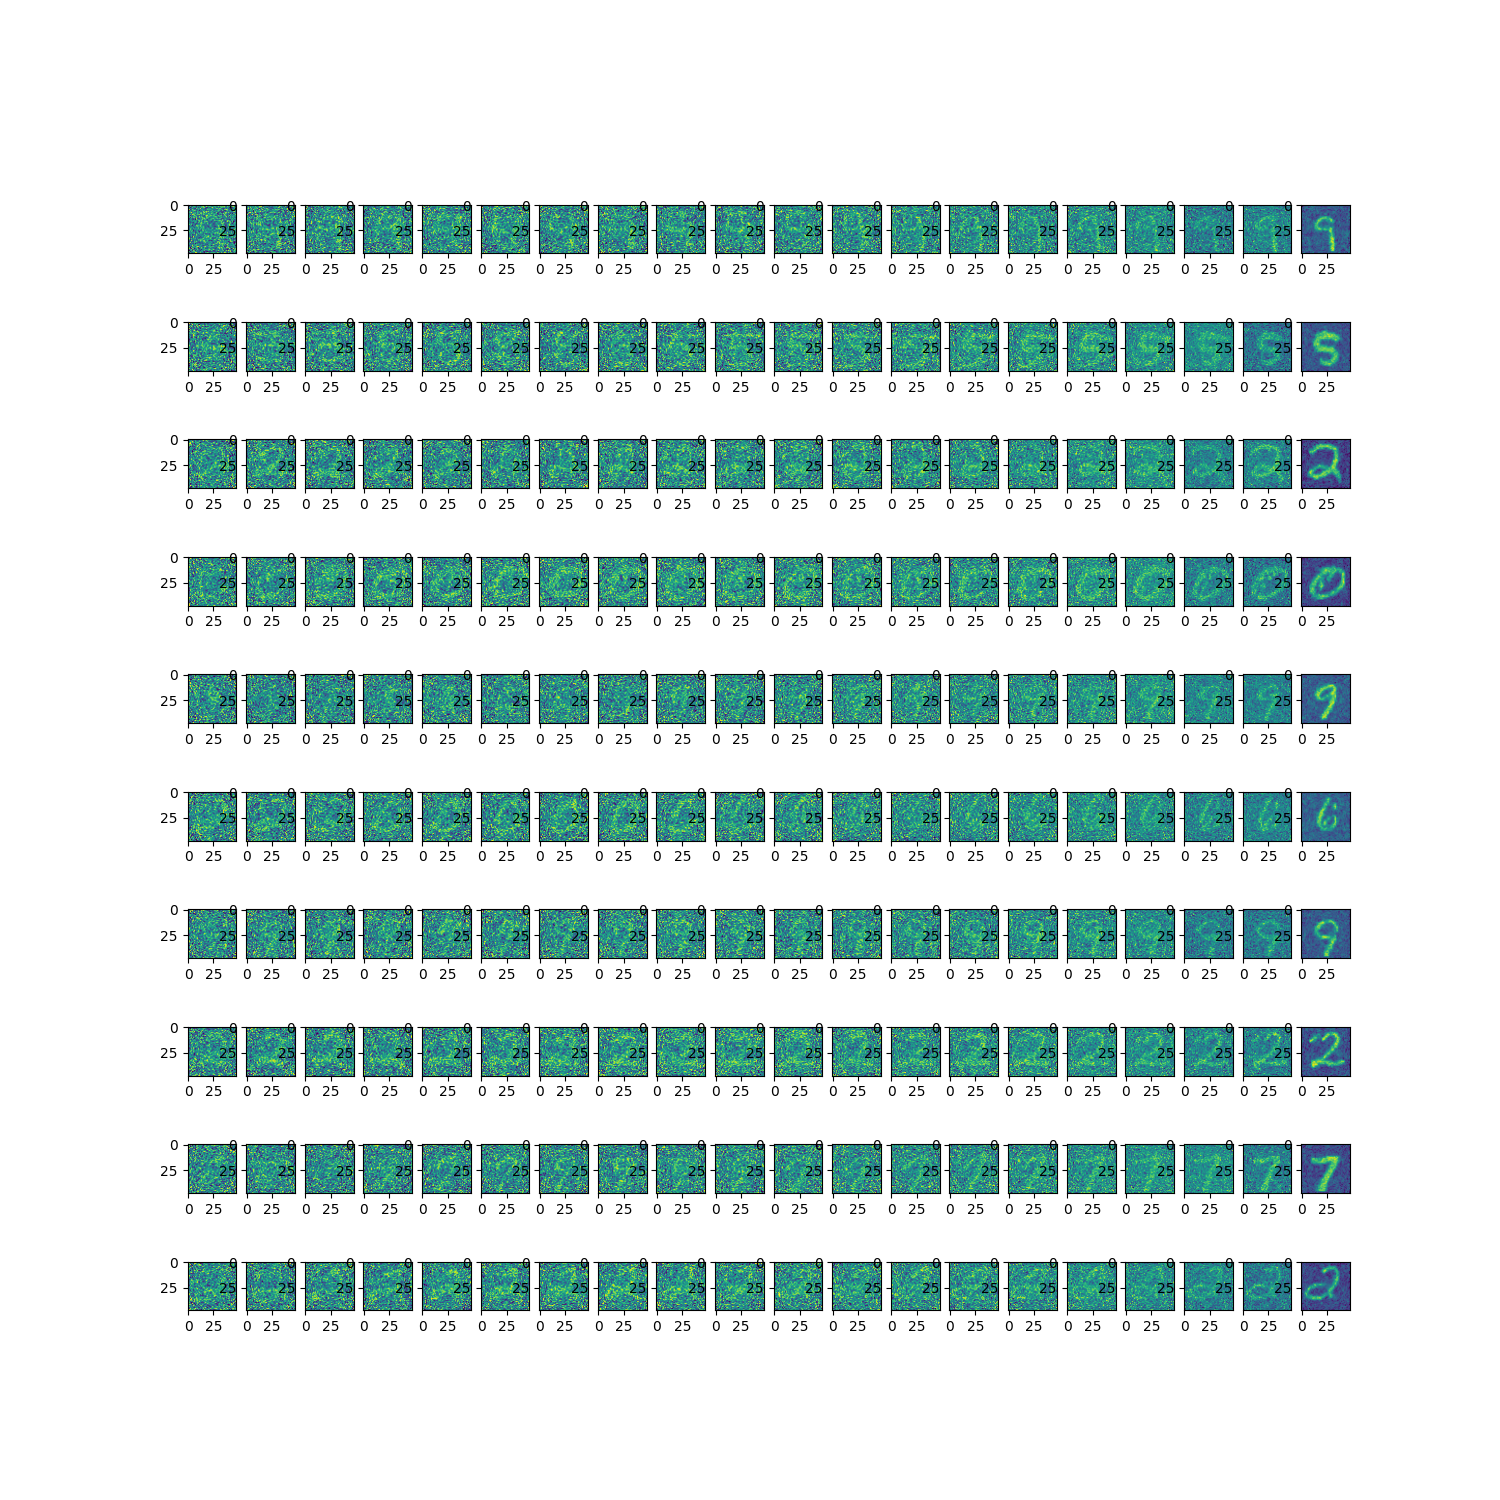
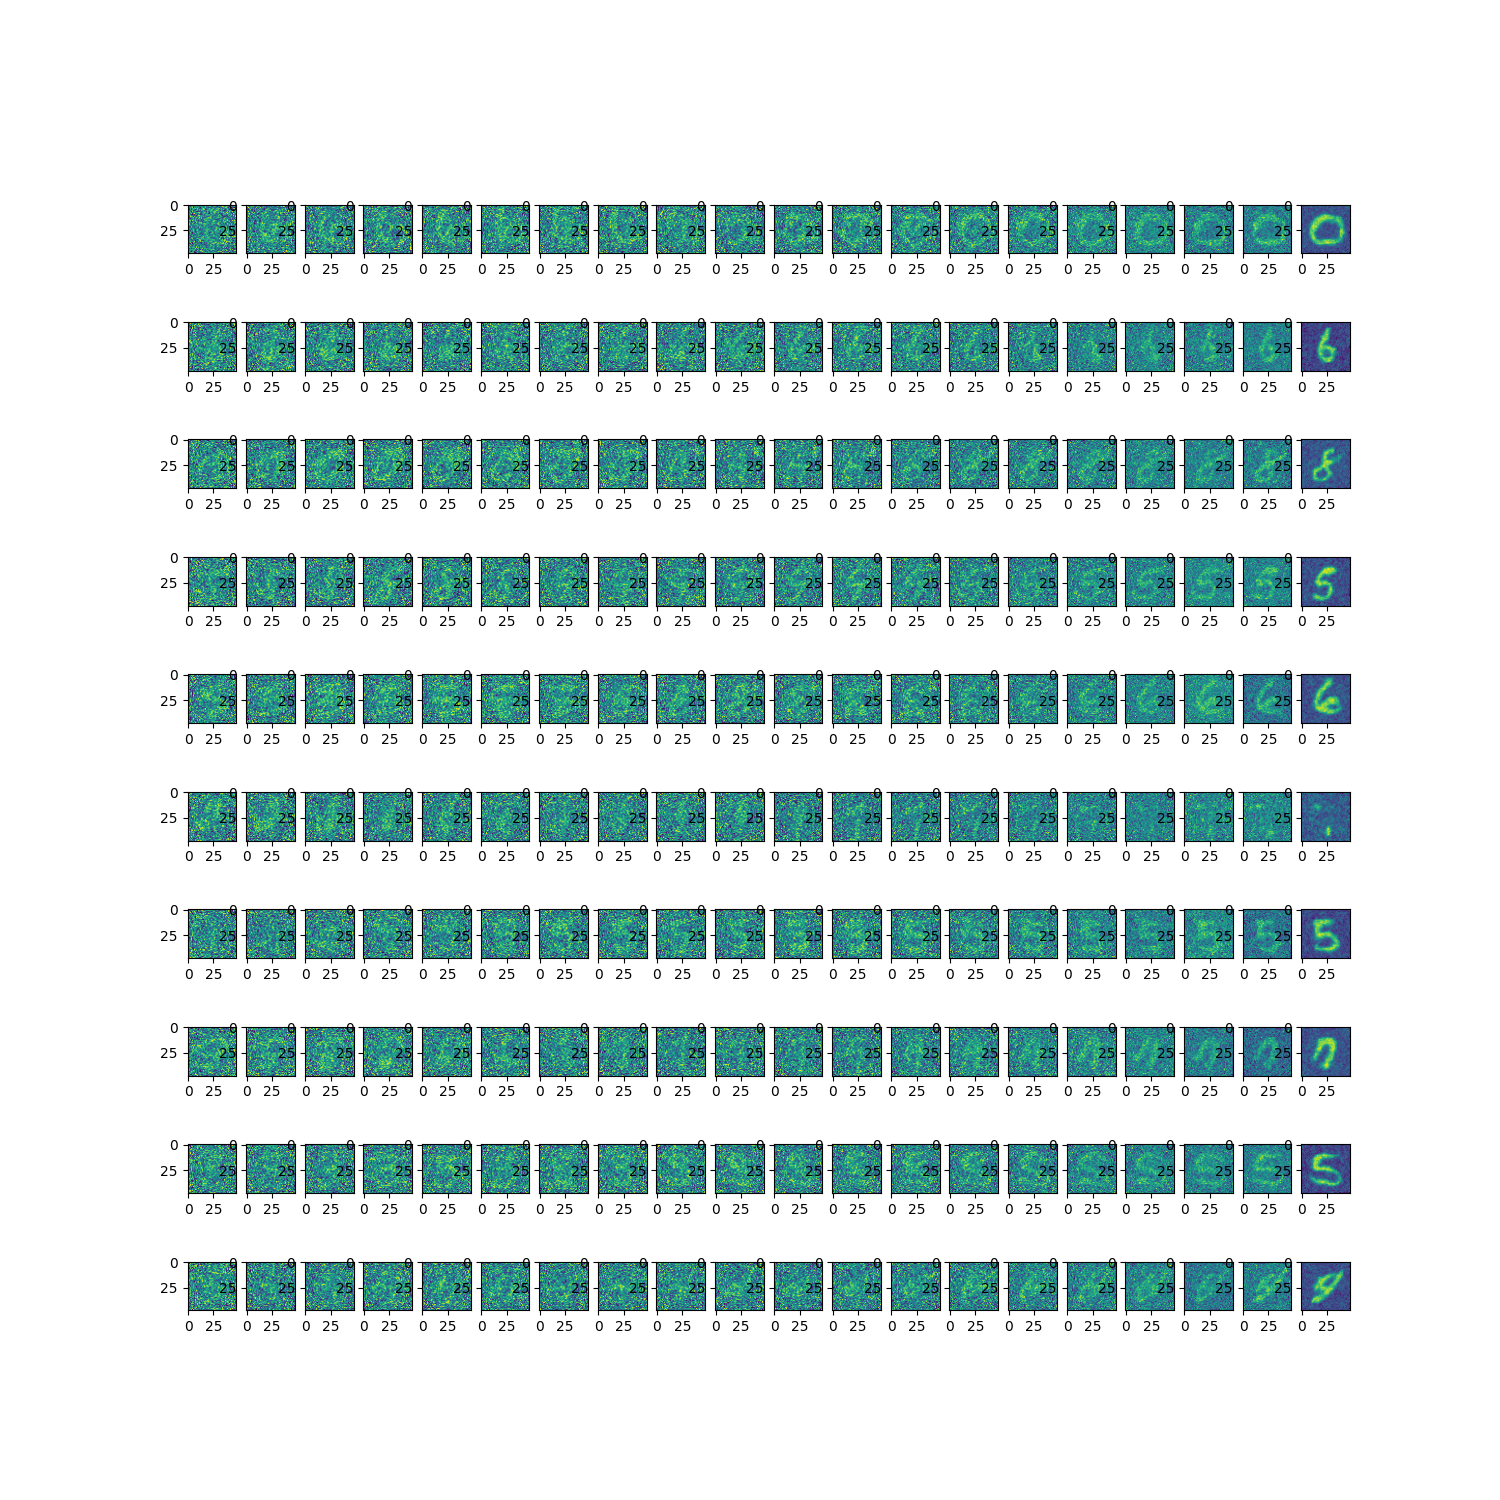
add attention

diff --git a/unet.py b/unet.py
@@ -2,10 +2,14 @@ import torch
 from torch import nn
 from time_position import TimePositionEmbedding
 from config import *
+from cross_attn import CrossAttention
+
 
 # Convblock with time embedding
 class convblock(nn.Module):
-    def __init__(self, in_channel, out_channel, time_emd_size):
+    def __init__(
+        self, in_channel, out_channel, time_emd_size, qsize, vsize, fsize, cls_emb_size
+    ):
         super().__init__()
 
         self.seq1 = nn.Sequential(
@@ -22,64 +26,79 @@ class convblock(nn.Module):
             nn.ReLU(),
         )
 
-    def forward(self, x, t_emb):
+        self.crossattn = CrossAttention(
+            channel=out_channel,
+            qsize=qsize,
+            vsize=vsize,
+            fsize=fsize,
+            cls_emb_size=cls_emb_size,
+        )
+
+    def forward(self, x, t_emb, cls_emb):
         x = self.seq1(x)
         t_emb = self.relu(self.time_emb_linear(t_emb).view(x.size(0), x.size(1), 1, 1))
-        return self.seq2(x + t_emb)
+        output = self.seq2(x + t_emb)
+        return self.crossattn(output, cls_emb)
+
 
 # U-Net architecture
-class unet(nn.Module):
-    def __init__(self, img_channel, channels=[64, 128, 256, 512, 1024]):
+class UNet(nn.Module):
+    def __init__(self,img_channel,channels=[64, 128, 256, 512, 1024],time_emb_size=256,qsize=16,vsize=16,fsize=32,cls_emb_size=32):
         super().__init__()
 
-        channels = [img_channel] + channels
-
-        self.time_emd = nn.Sequential(
-            TimePositionEmbedding(embedding_size),
-            nn.Linear(embedding_size, embedding_size),
+        channels=[img_channel]+channels
+        
+        # time转embedding
+        self.time_emb=nn.Sequential(
+            TimePositionEmbedding(time_emb_size),
+            nn.Linear(time_emb_size,time_emb_size),
             nn.ReLU(),
         )
 
-        self.encoder_convs = nn.ModuleList()
-        for i in range(len(channels) - 1):
-            self.encoder_convs.append(
-                convblock(channels[i], channels[i + 1], embedding_size)
-            )
+        # 引导词cls转embedding
+        self.cls_emb=nn.Embedding(10,cls_emb_size)
 
-        self.maxpool = nn.MaxPool2d(kernel_size=2, stride=2)
+        # 每个encoder conv block增加一倍通道数
+        self.enc_convs=nn.ModuleList()
+        for i in range(len(channels)-1):
+            self.enc_convs.append(convblock(channels[i],channels[i+1],time_emb_size,qsize,vsize,fsize,cls_emb_size))
+        
+        # 每个encoder conv后马上缩小一倍图像尺寸,最后一个conv后不缩小
+        self.maxpools=nn.ModuleList()
+        for i in range(len(channels)-2):
+            self.maxpools.append(nn.MaxPool2d(kernel_size=2,stride=2,padding=0))
+        
+        # 每个decoder conv前放大一倍图像尺寸，缩小一倍通道数
+        self.deconvs=nn.ModuleList()
+        for i in range(len(channels)-2):
+            self.deconvs.append(nn.ConvTranspose2d(channels[-i-1],channels[-i-2],kernel_size=2,stride=2))
 
-        self.decoder_convs = nn.ModuleList()
-        for i in range(len(channels) - 2):
-            self.decoder_convs.append(
-                convblock(channels[-1 - i], channels[-2 - i], embedding_size)
-            )
+        # 每个decoder conv block减少一倍通道数
+        self.dec_convs=nn.ModuleList()
+        for i in range(len(channels)-2):
+            self.dec_convs.append(convblock(channels[-i-1],channels[-i-2],time_emb_size,qsize,vsize,fsize,cls_emb_size))   # 残差结构
 
-        self.up_cov = nn.ModuleList()
-        for i in range(len(channels) - 2):
-            self.up_cov.append(
-                nn.ConvTranspose2d(
-                    channels[-1 - i], channels[-2 - i], kernel_size=2, stride=2
-                )
-            )
+        # 还原通道数,尺寸不变
+        self.output=nn.Conv2d(channels[1],img_channel,kernel_size=1,stride=1,padding=0)
+        
+    def forward(self,x,t,cls):  # cls是引导词（图片分类ID）
+        # time做embedding
+        t_emb=self.time_emb(t)
 
-        self.output = nn.Conv2d(
-            channels[1], img_channel, kernel_size=1, stride=1, padding=0
-        )
-
-    def forward(self, x, t):
-        t_emb = self.time_emd(t)
-
-        residual = []
-        for i, conv in enumerate(self.encoder_convs):
-            x = conv(x, t_emb)
-            if i != len(self.encoder_convs) - 1:
+        # cls做embedding
+        cls_emb=self.cls_emb(cls)
+        
+        # encoder阶段
+        residual=[]
+        for i,conv in enumerate(self.enc_convs):
+            x=conv(x,t_emb,cls_emb)
+            if i!=len(self.enc_convs)-1:
                 residual.append(x)
-                x = self.maxpool(x)
-
-        for i, upconv in enumerate(self.up_cov):
-            x = upconv(x)
-            res_x = residual.pop(-1)
-            x = torch.cat((res_x, x), dim=1)
-            x = self.decoder_convs[i](x, t_emb)
-
-        return self.output(x)
+                x=self.maxpools[i](x)
+            
+        # decoder阶段
+        for i,deconv in enumerate(self.deconvs):
+            x=deconv(x)
+            residual_x=residual.pop(-1)
+            x=self.dec_convs[i](torch.cat((residual_x,x),dim=1),t_emb,cls_emb)    # 残差用于纵深channel维
+        return self.output(x) # 还原通道数

diff --git a/train.py b/train.py
@@ -1,44 +1,50 @@
-import os
-import torch
+from config import *
 from torch.utils.data import DataLoader
 from data import train_dataset
-from config import *
-import unet
-from torch import nn
+from unet import UNet
 from diffusion import forward
+import torch
+from torch import nn
+import os
 
 epochs = 200
-batch_size = 800
+BATCH_SIZE = 400
 
-dataloader = DataLoader(
-    train_dataset, batch_size, shuffle=True, num_workers=4, persistent_workers=True
-)
+dataloader = DataLoader(train_dataset, batch_size=BATCH_SIZE,
+                        num_workers=4, persistent_workers=True, shuffle=True)   # 数据加载器
 
-# 创建模型实例，并移动到指定设备
-model = unet.unet(1).to(DEVICE)
 
-optimizer = torch.optim.Adam(model.parameters(), lr=0.01)
-loss_fn = nn.L1Loss()
+model = UNet(1).to(DEVICE)   # 噪音预测模型
 
-model.train()
-for epoch in range(epochs):
-    epoch_loss = 0  # 用于记录每个epoch的总损失
-    for batch_x, _ in dataloader:
-        batch_x = batch_x.to(DEVICE) * 2 - 1
-        batch_t = torch.randint(0, T, (batch_x.size(0),)).to(DEVICE)
+optimizer = torch.optim.Adam(model.parameters(), lr=0.001)  # 优化器
+loss_fn = nn.L1Loss()  # 损失函数(绝对值误差均值)
 
-        batch_x_t, batch_noise = forward(batch_x, batch_t)
 
-        batch_predict_t = model(batch_x_t, batch_t)
-        loss = loss_fn(batch_predict_t, batch_noise)
+if __name__ == '__main__':
+    model.train()
+    n_iter = 0
+    for epoch in range(epochs):
+        last_loss = 0
+        for batch_x, batch_cls in dataloader:
+            # 图像的像素范围转换到[-1,1],和高斯分布对应
+            batch_x = batch_x.to(DEVICE)*2-1
+            # 引导分类ID
+            batch_cls = batch_cls.to(DEVICE)
+            # 为每张图片生成随机t时刻
+            batch_t = torch.randint(0, T, (batch_x.size(0),)).to(DEVICE)
+            # 生成t时刻的加噪图片和对应噪音
+            batch_x_t, batch_noise_t = forward(batch_x, batch_t)
+            # 模型预测t时刻的噪音
+            batch_predict_t = model(batch_x_t, batch_t, batch_cls)
+            # 求损失
+            loss = loss_fn(batch_predict_t, batch_noise_t)
+            # 优化参数
+            optimizer.zero_grad()
+            loss.backward()
+            optimizer.step()
+            last_loss = loss.item()
+            n_iter += 1
 
-        optimizer.zero_grad()
-        loss.backward()
-        optimizer.step()
-        
-        # 累加batch损失
-        epoch_loss += loss.item()
-
-    print(f'Epoch [{epoch+1}/{epochs}], Loss: {epoch_loss:.4f}')  # 输出每个epoch的平均损失
-    torch.save(model, 'model.pt.tmp')
-    os.replace('model.pt.tmp', 'model.pt')
+        print('epoch:{} loss={}'.format(epoch, last_loss))
+        torch.save(model, 'model.pt.tmp')
+        os.replace('model.pt.tmp', '/home/ubuntu/oyzh/diff/model.pt')

diff --git a/cross_attn.py b/cross_attn.py
@@ -1,0 +1,66 @@
+import torch
+from torch import nn
+from config import *
+import math
+
+
+class CrossAttention(nn.Module):
+    def __init__(self, channel, qsize, vsize, fsize, cls_emb_size):
+        super().__init__()
+        self.w_q = nn.Linear(channel, qsize)
+        self.w_k = nn.Linear(cls_emb_size, qsize)
+        self.w_v = nn.Linear(cls_emb_size, vsize)
+        self.softmax = nn.Softmax(dim=-1)
+        self.z_linear = nn.Linear(vsize, channel)
+
+        self.norm1 = nn.LayerNorm(channel)
+        # feed-forward结构
+        self.feedforward = nn.Sequential(
+            nn.Linear(channel, fsize), 
+            nn.ReLU(), 
+            nn.Linear(fsize, channel)
+        )
+        self.norm2 = nn.LayerNorm(channel)
+
+    def forward(self, x, cls_emb):  # x:(batch_size,channel,width,height), cls_emb:(batch_size,cls_emb_size)
+        x = x.permute(0, 2, 3, 1)  # x:(batch_size,width,height,channel)
+
+        Q = self.w_q(x)  # Q: (batch_size,width,height,qsize)
+        Q = Q.view(
+            Q.size(0), Q.size(1) * Q.size(2), Q.size(3)
+        )  # Q: (batch_size,width*height,qsize)
+
+
+        K = self.w_k(cls_emb)  # K: (batch_size,qsize)
+        K = K.view(K.size(0), K.size(1), 1)  # K: (batch_size,qsize,1)
+        V = self.w_v(cls_emb)  # V: (batch_size,vsize)
+        V = V.view(V.size(0), 1, V.size(1))  # v: (batch_size,1,vsize)
+
+        # 注意力打分矩阵Q*K
+        attn = torch.matmul(Q, K) / math.sqrt(
+            Q.size(2)
+        )  # attn: (batch_size,width*height,1)
+
+        attn = self.softmax(attn)  
+        # attn: (batch_size,width*height,1)
+        # v: (batch_size,1,vsize)
+
+        Z = torch.matmul(attn, V) 
+        # Z: (batch_size,width*height,vsize)
+
+        Z = self.z_linear(Z)  # Z: (batch_size,width*height,channel)
+        Z = Z.view(
+            x.size(0), x.size(1), x.size(2), x.size(3)
+        )  # Z: (batch_size,width,height,channel)
+
+        # 残差&layerNorm
+        # Z: (batch_size,width,height,channel)
+        Z = self.norm1(Z + x)  
+
+        # FeedForward
+        out = self.feedforward(Z)  
+        # Z: (batch_size,width,height,channel)
+
+        # 残差&layerNorm
+        out = self.norm2(out + Z)
+        return out.permute(0, 3, 1, 2)

diff --git a/denoice.py b/denoice.py
@@ -19,13 +19,14 @@ def backward_denoise(model, batch_x_t, batch_cls):
     alphas = alphas.to(DEVICE)
     alphas_cum = alphas_cum.to(DEVICE)
     variance = variance.to(DEVICE)
+    batch_cls=batch_cls.to(DEVICE)
 
 
     with torch.no_grad():
         for t in range(T - 1, -1, -1):
             batch_t = torch.full((batch_x_t.size(0),), t).to(DEVICE)
             # 预测x_t时刻的噪音
-            batch_predict_noise_t = model(batch_x_t, batch_t)
+            batch_predict_noise_t = model(batch_x_t, batch_t, batch_cls)
 
             # 生成t-1时刻的图像
             shape = (batch_x_t.size(0), 1, 1, 1)
@@ -52,7 +53,7 @@ def backward_denoise(model, batch_x_t, batch_cls):
 
 if __name__ == "__main__":
     # 加载模型
-    model = torch.load("model.pt")
+    model = torch.load("/home/ubuntu/oyzh/diff/model.pt")
 
     # 打印模型结构
     print(model)
@@ -60,7 +61,7 @@ if __name__ == "__main__":
     # 生成噪音图
     batch_size = 10
     batch_x_t = torch.randn(size=(batch_size, 1, img_size, img_size))  # (5,1,48,48)
-    batch_cls = torch.arange(start=0, end=10, dtype=torch.long)  # 引导词promot
+    batch_cls = torch.arange(start=0, end=10, dtype=torch.long)  # promot
     # 逐步去噪得到原图
     steps = backward_denoise(model, batch_x_t, batch_cls)
     # 绘制数量
@@ -77,6 +78,7 @@ if __name__ == "__main__":
             plt.subplot(batch_size, num_imgs, b * num_imgs + i + 1)
             plt.imshow(final_img)
     plt.show()
+    
 # 保存图片
     output_dir = 'output_images'
     if not os.path.exists(output_dir):

diff --git a/config.py b/config.py
@@ -4,4 +4,5 @@ img_size = 48
 T = 1000 #steps
 DEVICE = "cuda" if torch.cuda.is_available() == True else "cpu"
 
+count_nums = 10
 embedding_size = 8
